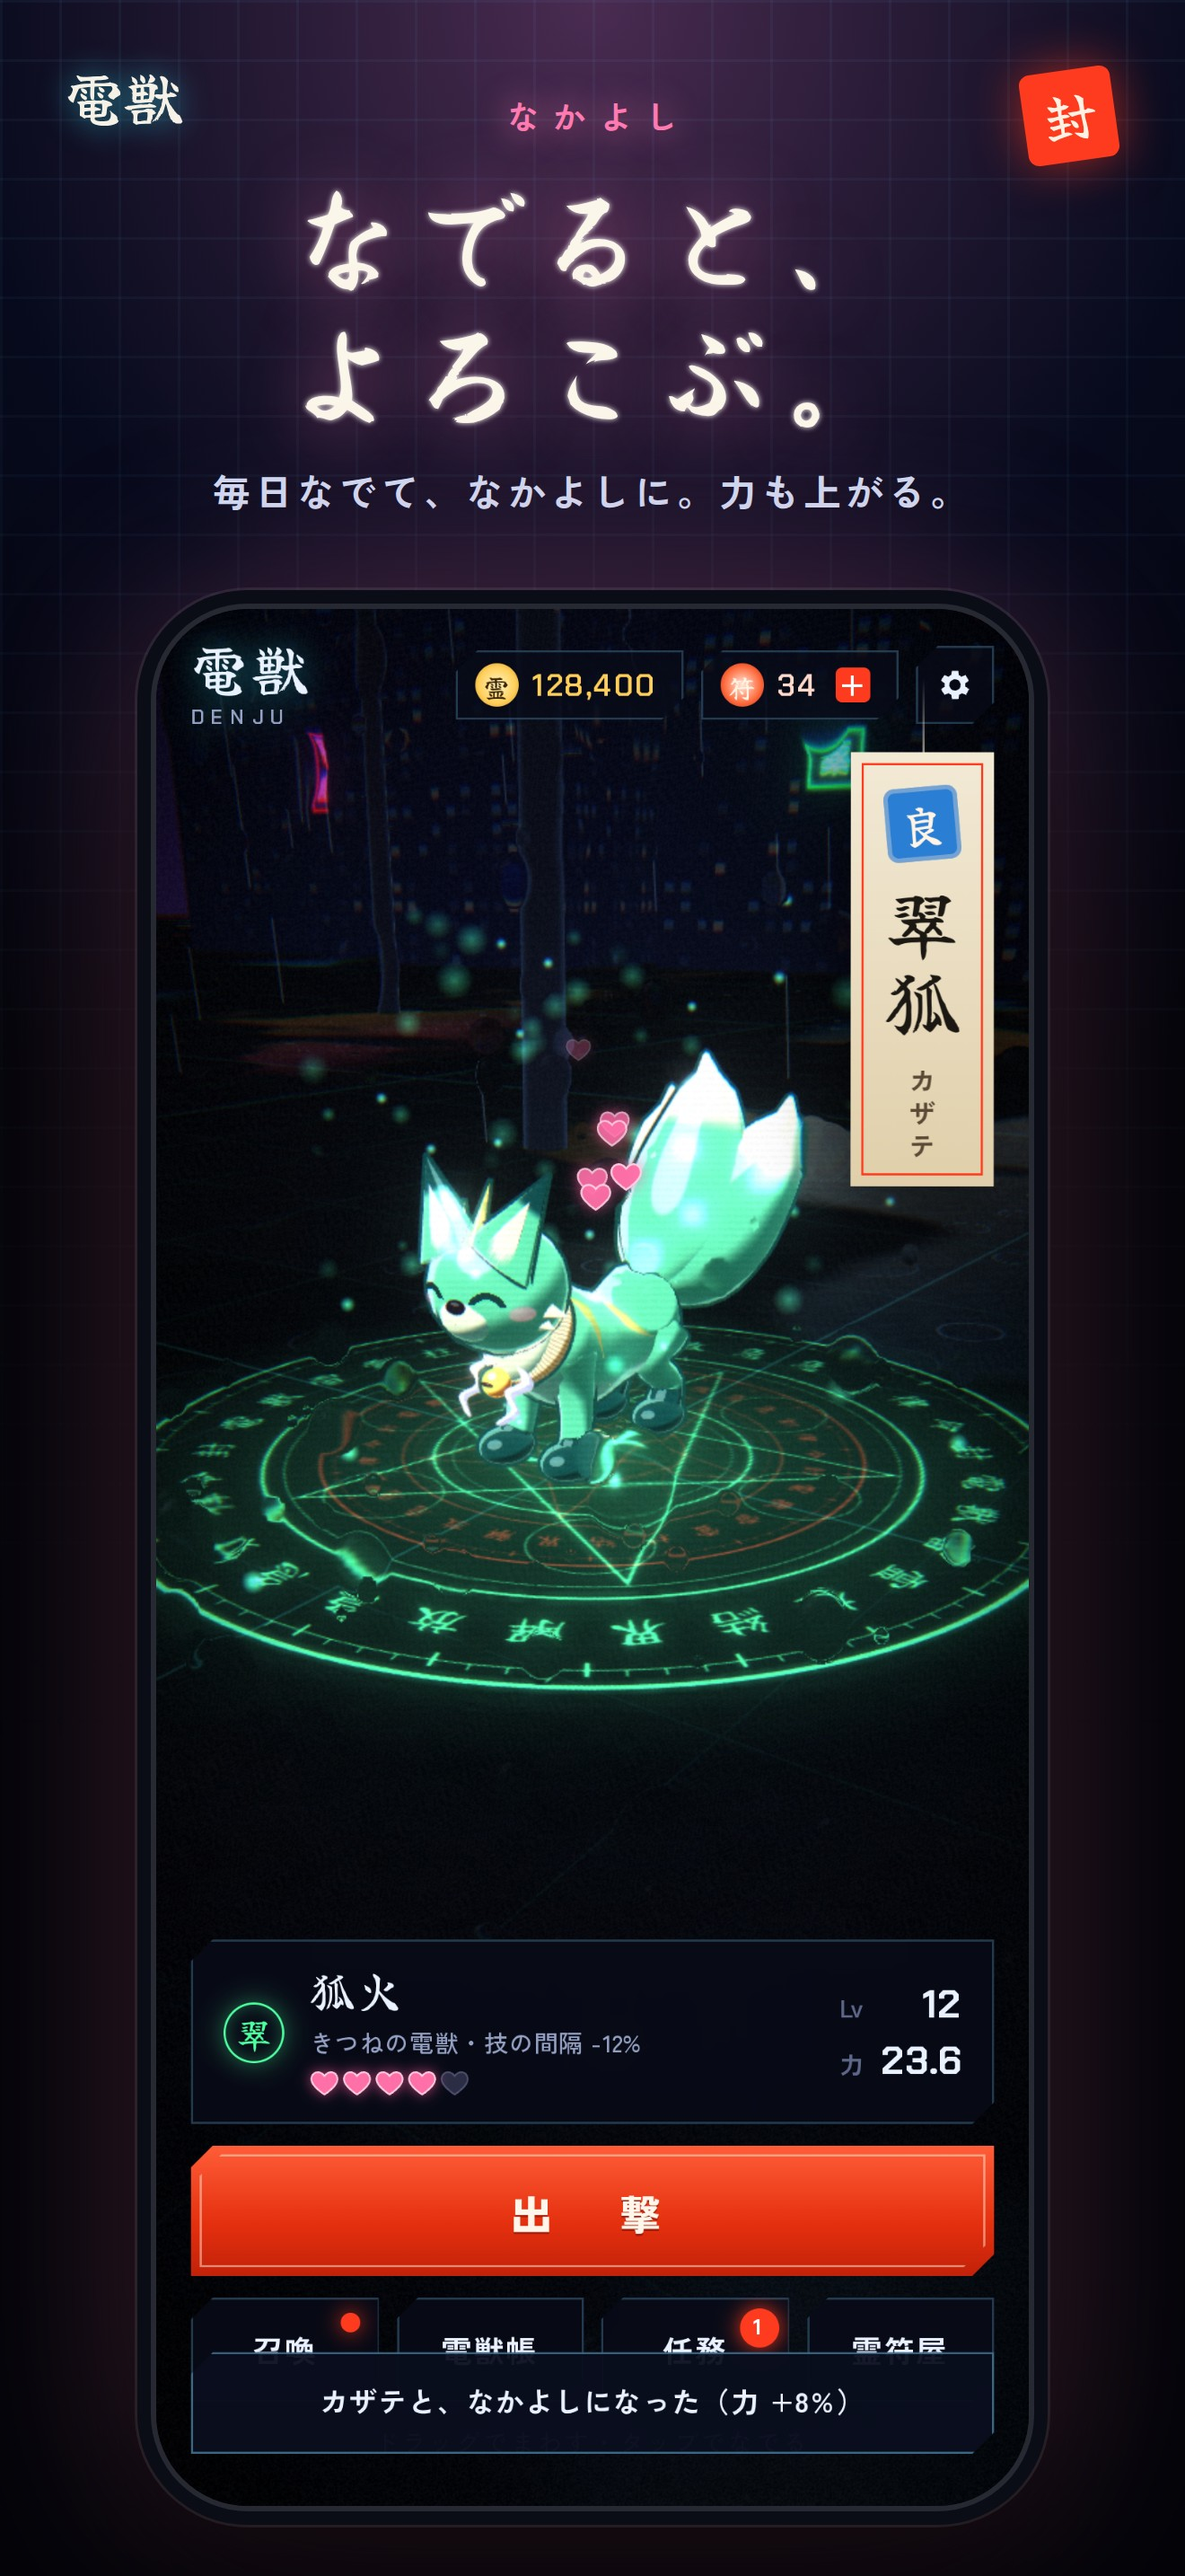
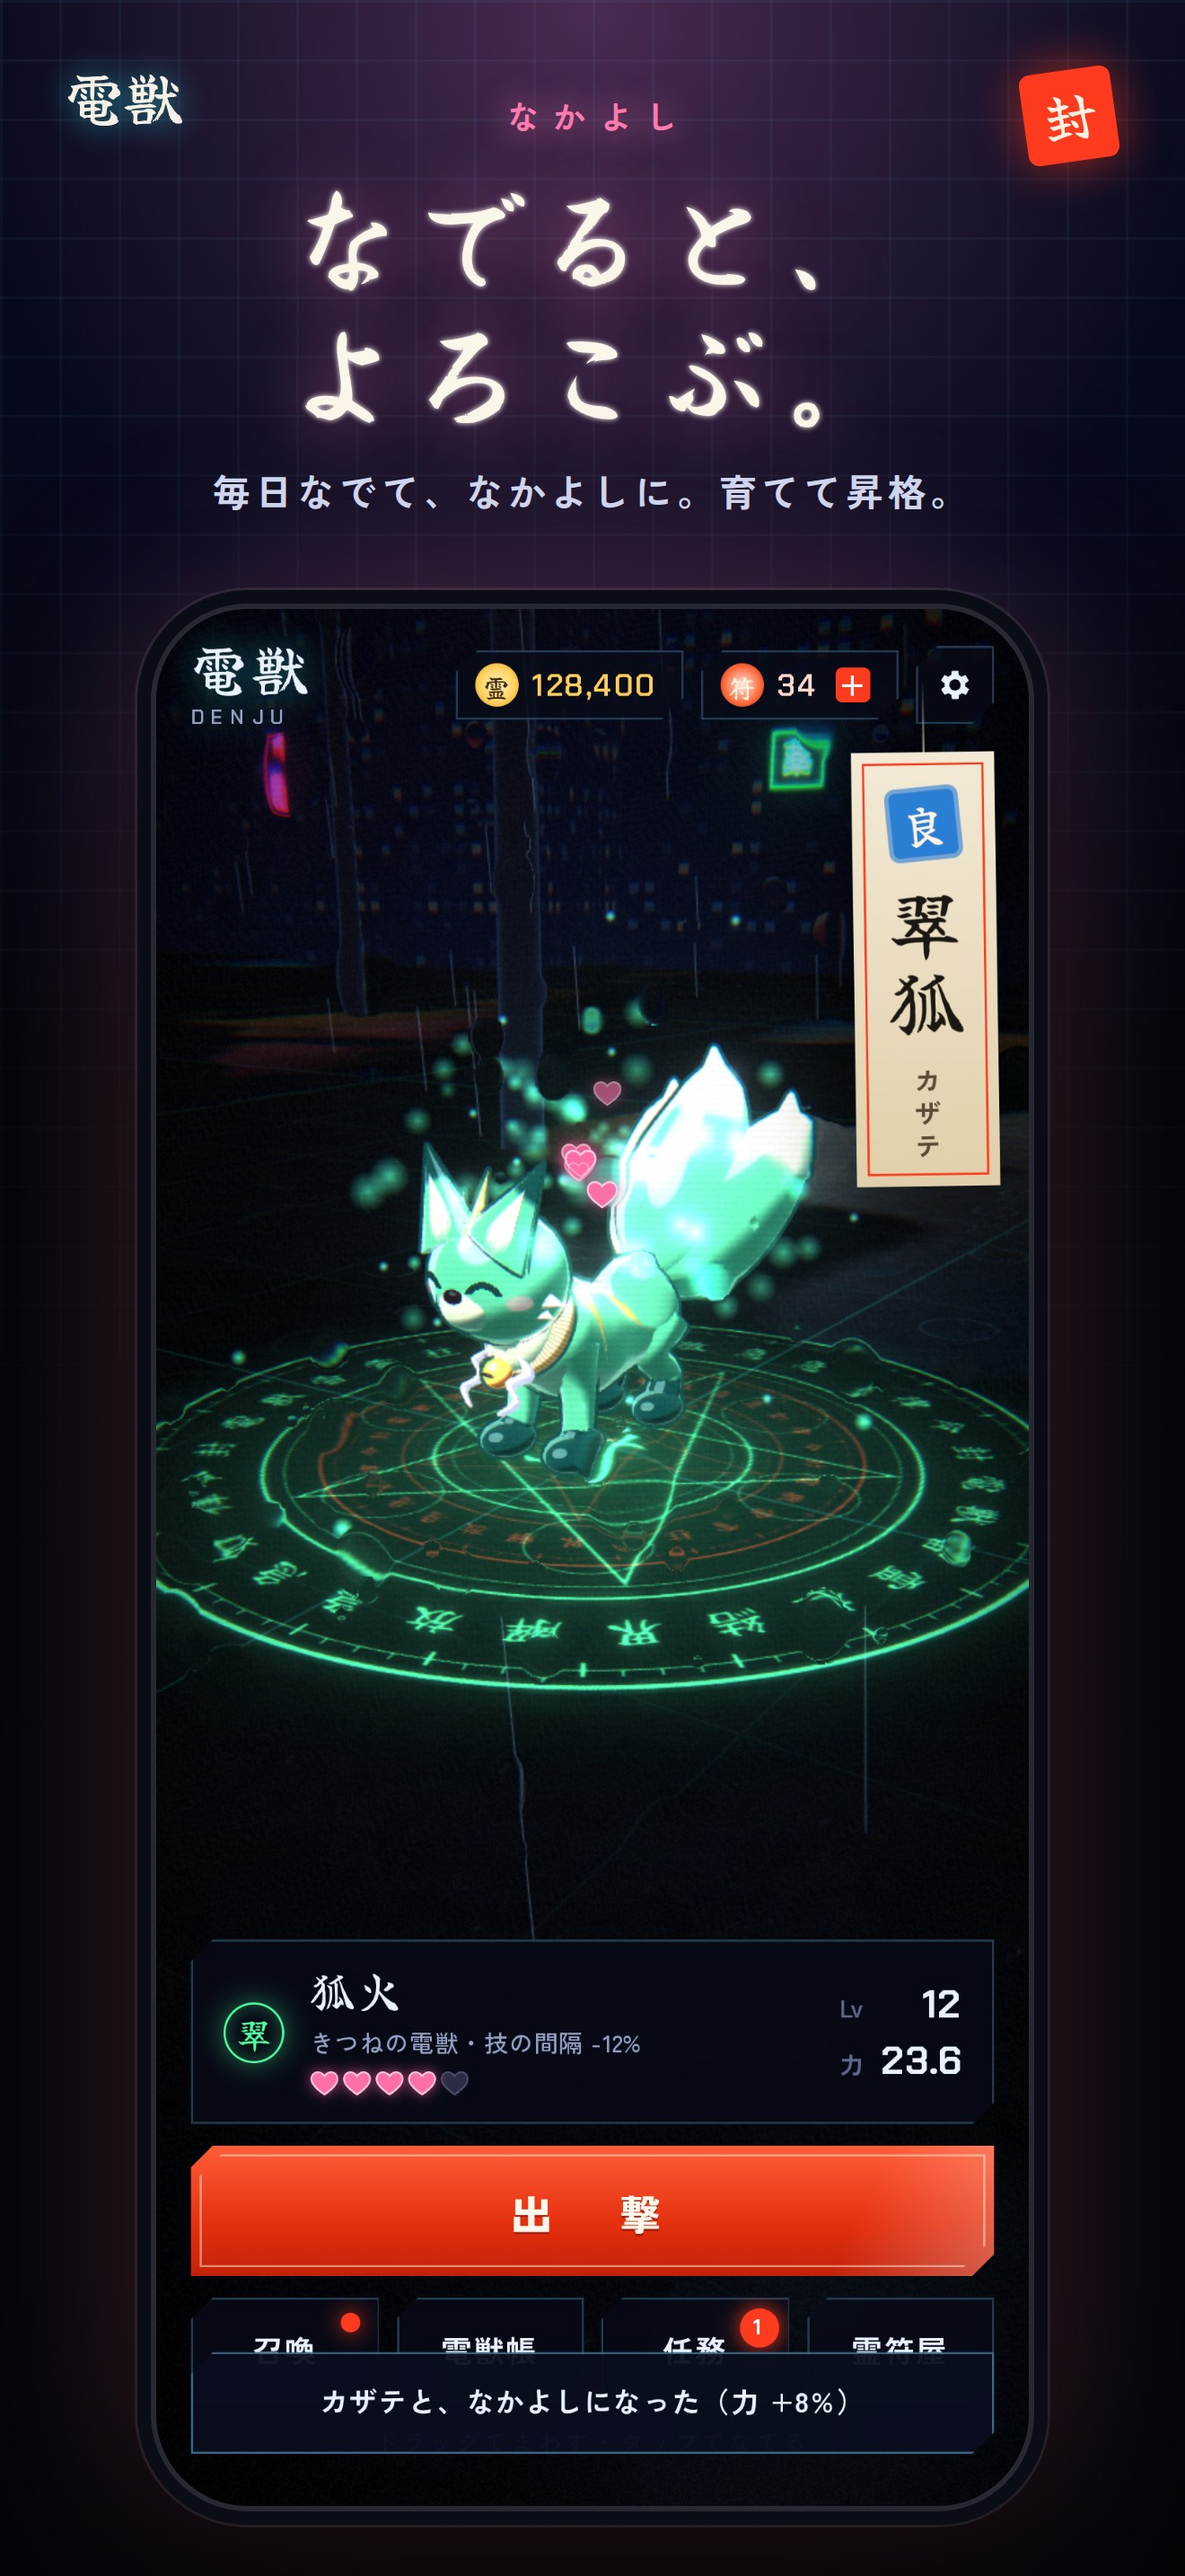
v1.4: eight screenshots, 色違い and 昇格 on the top page, privacy note on reminders
Claude-Session: https://claude.ai/code/session_01LKHU8wbc7ENvDeib6Km5aQ

diff --git a/odds.html b/odds.html
@@ -27,4 +27,5 @@ footer{margin-top:56px;padding-block:24px 40px;border-top:1px solid var(--edge);
 <h3>10回召喚の10体目（稀以上確定）</h3><div class="tbl"><table><tr><th>神（UR）</th><td>3%</td></tr><tr><th>稀（SR）</th><td>97%</td></tr></table></div>
 <h3>神の確定（天井）</h3><p>神が出ないまま召喚を続けた場合、100回目は神（100%）になります。神が出た時点で数え直します。残りの回数は召喚画面に表示されます。</p>
 <h3>種族と属性</h3><p>レア度が決まったあと、種族は 狐・狼 各26%、麒・龍・鳳 各16%、属性（雷・焔・蒼・翠・冥）は各20%で決まります。1回召喚での各電獣の割合は次のとおりです（10回召喚の10体目を除く）。</p><h3>並（N）の電獣　1体あたり</h3><div class="tbl"><table><tr><th></th><th>狐</th><th>狼</th><th>麒</th><th>龍</th><th>鳳</th></tr><tr><th>雷</th><td>2.860%</td><td>2.860%</td><td>1.760%</td><td>1.760%</td><td>1.760%</td></tr><tr><th>焔</th><td>2.860%</td><td>2.860%</td><td>1.760%</td><td>1.760%</td><td>1.760%</td></tr><tr><th>蒼</th><td>2.860%</td><td>2.860%</td><td>1.760%</td><td>1.760%</td><td>1.760%</td></tr><tr><th>翠</th><td>2.860%</td><td>2.860%</td><td>1.760%</td><td>1.760%</td><td>1.760%</td></tr><tr><th>冥</th><td>2.860%</td><td>2.860%</td><td>1.760%</td><td>1.760%</td><td>1.760%</td></tr></table></div><h3>良（R）の電獣　1体あたり</h3><div class="tbl"><table><tr><th></th><th>狐</th><th>狼</th><th>麒</th><th>龍</th><th>鳳</th></tr><tr><th>雷</th><td>1.560%</td><td>1.560%</td><td>0.960%</td><td>0.960%</td><td>0.960%</td></tr><tr><th>焔</th><td>1.560%</td><td>1.560%</td><td>0.960%</td><td>0.960%</td><td>0.960%</td></tr><tr><th>蒼</th><td>1.560%</td><td>1.560%</td><td>0.960%</td><td>0.960%</td><td>0.960%</td></tr><tr><th>翠</th><td>1.560%</td><td>1.560%</td><td>0.960%</td><td>0.960%</td><td>0.960%</td></tr><tr><th>冥</th><td>1.560%</td><td>1.560%</td><td>0.960%</td><td>0.960%</td><td>0.960%</td></tr></table></div><h3>稀（SR）の電獣　1体あたり</h3><div class="tbl"><table><tr><th></th><th>狐</th><th>狼</th><th>麒</th><th>龍</th><th>鳳</th></tr><tr><th>雷</th><td>0.624%</td><td>0.624%</td><td>0.384%</td><td>0.384%</td><td>0.384%</td></tr><tr><th>焔</th><td>0.624%</td><td>0.624%</td><td>0.384%</td><td>0.384%</td><td>0.384%</td></tr><tr><th>蒼</th><td>0.624%</td><td>0.624%</td><td>0.384%</td><td>0.384%</td><td>0.384%</td></tr><tr><th>翠</th><td>0.624%</td><td>0.624%</td><td>0.384%</td><td>0.384%</td><td>0.384%</td></tr><tr><th>冥</th><td>0.624%</td><td>0.624%</td><td>0.384%</td><td>0.384%</td><td>0.384%</td></tr></table></div><h3>神（UR）の電獣　1体あたり</h3><div class="tbl"><table><tr><th></th><th>狐</th><th>狼</th><th>麒</th><th>龍</th><th>鳳</th></tr><tr><th>雷</th><td>0.156%</td><td>0.156%</td><td>0.096%</td><td>0.096%</td><td>0.096%</td></tr><tr><th>焔</th><td>0.156%</td><td>0.156%</td><td>0.096%</td><td>0.096%</td><td>0.096%</td></tr><tr><th>蒼</th><td>0.156%</td><td>0.156%</td><td>0.096%</td><td>0.096%</td><td>0.096%</td></tr><tr><th>翠</th><td>0.156%</td><td>0.156%</td><td>0.096%</td><td>0.096%</td><td>0.096%</td></tr><tr><th>冥</th><td>0.156%</td><td>0.156%</td><td>0.096%</td><td>0.096%</td><td>0.096%</td></tr></table></div>
-<h3>言霊召喚</h3><p>言霊召喚の結果は、書いた言葉ごとにあらかじめ決まっています（だれが書いても同じ）。現れるのは稀（SR）までで、神は現れません。言霊召喚に有料の召喚符は使いません。</p></main><footer><a href="terms.html">利用規約</a><a href="privacy.html">プライバシーポリシー</a><a href="tokushoho.html">特定商取引法に基づく表記</a><a href="fund.html">資金決済法に基づく表示</a><a href="odds.html">提供割合</a><a href="support.html">サポート</a><p>© 2026 サン楽</p></footer></div></body></html>
+<h3>言霊召喚</h3><p>言霊召喚の結果は、書いた言葉ごとにあらかじめ決まっています（だれが書いても同じ）。現れるのは稀（SR）までで、神は現れません。言霊召喚に有料の召喚符は使いません。</p>
+<h3>色違い</h3><p>どの電獣にも、見た目の色だけがちがう「色違い」がいます（力・技は同じ）。色違いかどうかは札・言葉ごとに決まっていて、全体のおよそ2.5%です。レア度の割合には影響しません。</p></main><footer><a href="terms.html">利用規約</a><a href="privacy.html">プライバシーポリシー</a><a href="tokushoho.html">特定商取引法に基づく表記</a><a href="fund.html">資金決済法に基づく表示</a><a href="odds.html">提供割合</a><a href="support.html">サポート</a><p>© 2026 サン楽</p></footer></div></body></html>

diff --git a/index.html b/index.html
@@ -25,7 +25,7 @@ footer{margin-top:56px;padding-block:24px 40px;border-top:1px solid var(--edge);
 <div class="wrap"><header><a class="brand" href="./">電獣</a><nav><a href="support.html">サポート</a><a href="privacy.html">プライバシー</a></nav></header>
 <section class="hero"><img class="icon" src="img/icon.png" alt="電獣のアイコン"><div><h1>書いた言葉が、<br>電獣になる。</h1>
 <p class="lead">電線に眠る霊獣「電獣」を喚び、夜の街にあふれる怪異「ノイズ」を祓う、和風3Dサバイバーアクション。好きな言葉を札に書くと、その言葉に宿る電獣が目覚める――だれが書いても、同じ電獣。</p><span class="cta soon">App Store 配信準備中</span></div></section>
-<div class="shots"><img src="img/1_word.jpg" alt="" loading="lazy"><img src="img/2_pet.jpg" alt="" loading="lazy"><img src="img/3_battle.jpg" alt="" loading="lazy"><img src="img/4_ur.jpg" alt="" loading="lazy"><img src="img/5_input.jpg" alt="" loading="lazy"><img src="img/6_boss.jpg" alt="" loading="lazy"><img src="img/7_multi.jpg" alt="" loading="lazy"></div>
+<div class="shots"><img src="img/1_word.jpg" alt="" loading="lazy"><img src="img/2_pet.jpg" alt="" loading="lazy"><img src="img/3_shiny.jpg" alt="" loading="lazy"><img src="img/4_battle.jpg" alt="" loading="lazy"><img src="img/5_ur.jpg" alt="" loading="lazy"><img src="img/6_input.jpg" alt="" loading="lazy"><img src="img/7_boss.jpg" alt="" loading="lazy"><img src="img/8_multi.jpg" alt="" loading="lazy"></div>
 <h2>言霊召喚</h2><p>自分の名前、推しの名前、今日の晩ごはん。言葉ごとに決まった電獣が現れます。「○○って書いたら稀の五尾が出た」をシェアしよう。</p>
-<h2>遊び方</h2><div class="feat"><div><b>指一本</b>ドラッグで移動、技は自動。1回3分前後。</div><div><b>覚醒</b>強化を選んで技を進化させ、画面を雷で埋めつくす。</div><div><b>なかよし</b>拠点で電獣をタップすると、なでられる。毎日なでると「なかよし」が上がって、力も強くなる。</div><div><b>25種×4階級</b>狐・狼・麒麟・龍・鳳 × 5属性。雷は白磁、焔は朱漆、蒼は氷、翠は翡翠、冥は墨。神の狐は九尾に。</div><div><b>百鬼夜行</b>ノイズは人魂・鎌鼬・鬼・提灯お化け・鎧武者の姿で押し寄せる。妖は形で見分けられる。</div><div><b>6つの区と大禍</b>駅前から千本鳥居の稲荷坂、嵐の鉄塔の丘、雷雲の頂へ。姿も攻撃もちがう大禍が待つ。</div><div><b>深度30</b>浄化した区は、深度を上げてさらに強いノイズへ。</div></div>
+<h2>遊び方</h2><div class="feat"><div><b>指一本</b>ドラッグで移動、技は自動。1回3分前後。</div><div><b>覚醒</b>強化を選んで技を進化させ、画面を雷で埋めつくす。</div><div><b>なかよしと昇格</b>拠点で電獣をタップすると、なでられる。毎日なでると「なかよし」が上がり、Lv30・♥5で昇格。子どもの姿から凛々しい姿へ育つ。名前もつけられる。</div><div><b>色違い</b>札や言葉ごとに決まった、まれな色の電獣。黒漆、桜、金、藤、月白。</div><div><b>25種×4階級</b>狐・狼・麒麟・龍・鳳 × 5属性。雷は白磁、焔は朱漆、蒼は氷、翠は翡翠、冥は墨。神の狐は九尾に。</div><div><b>百鬼夜行</b>ノイズは人魂・鎌鼬・鬼・提灯お化け・鎧武者の姿で押し寄せる。妖は形で見分けられる。</div><div><b>6つの区と大禍</b>駅前から千本鳥居の稲荷坂、嵐の鉄塔の丘、雷雲の頂へ。姿も攻撃もちがう大禍が待つ。</div><div><b>深度30</b>浄化した区は、深度を上げてさらに強いノイズへ。</div></div>
 <footer><a href="terms.html">利用規約</a><a href="privacy.html">プライバシーポリシー</a><a href="tokushoho.html">特定商取引法に基づく表記</a><a href="fund.html">資金決済法に基づく表示</a><a href="odds.html">提供割合</a><a href="support.html">サポート</a><p>© 2026 サン楽</p></footer></div></body></html>

diff --git a/support.html b/support.html
@@ -24,6 +24,9 @@ h3{font-size:15px;margin:22px 0 4px}
 footer{margin-top:56px;padding-block:24px 40px;border-top:1px solid var(--edge);font-size:12px;color:var(--dim)}footer a{color:var(--dim);margin-right:12px}</style></head><body>
 <div class="wrap"><header><a class="brand" href="./">電獣</a><nav><a href="support.html">サポート</a><a href="privacy.html">プライバシー</a></nav></header><main class="doc"><h2>サポート</h2><p>不具合やご意見は、次のメールアドレスまでお送りください。返信までお時間をいただくことがあります。</p><p style="font-size:15px;color:#fff">wakahisamk@gmail.com</p><p>お送りいただきたい内容：アプリのバージョン（1.0.0）、お使いの機種と OS のバージョン、起きたことと手順。</p>
 <h3>遊び方</h3><ul><li>「召喚」で電獣を呼び、「出撃」で区を浄化します。移動はドラッグ、技は自動で出ます。</li><li>電柱のそばでは「共鳴」して技が強くなります。ゲージが満ちたら「解放」。</li><li>浄化した区は「深度」を上げて挑めます。初めて浄化した深度では召喚符がもらえます。</li><li>霊子で電獣に霊力を注ぐ（レベルを上げる）と強くなります。</li></ul>
+<h3>なかよしと昇格</h3><p>拠点で電獣をタップすると、なでられます。1日1回「なかよし」が上がり（最大♥5）、力も上がります。Lv30・なかよし♥5になった並と良の電獣は、霊子を使って1つ上の位に「昇格」できます（稀まで）。姿が育ち、力が上がります。</p>
+<h3>留守番の霊子</h3><p>アプリを閉じているあいだ、主の電獣が霊子を集めてくれます（最大12時間分）。浄化した区が増えるほど、なかよしが高いほど多く集まります。拠点の「受け取る」で受け取れます。</p>
+<h3>名前</h3><p>電獣帳で電獣を開き、名前の横の ✎ から好きな名前（8文字まで）をつけられます。</p>
 <h3>召喚符の集め方</h3><ul><li>毎日のログイン、今日の任務、区・深度の初浄化、広告（1日2回）で手に入ります。霊符屋で購入もできます。</li></ul>
 <h3>言霊召喚とは</h3><p>好きな言葉を札に書いて召喚します。同じ言葉からは、だれが書いても同じ電獣が現れます。1日1回（広告でもう1回）。</p>
 <h3>機種変更・データについて</h3><p>ゲームのデータは端末の中に保存されます。機種変更のときは、iPhone なら iCloud バックアップ、Android なら Google のバックアップから新しい端末へ復元すると引き継げます。アプリを削除するとデータは消えます。</p>

diff --git a/privacy.html b/privacy.html
@@ -24,7 +24,7 @@ h3{font-size:15px;margin:22px 0 4px}
 footer{margin-top:56px;padding-block:24px 40px;border-top:1px solid var(--edge);font-size:12px;color:var(--dim)}footer a{color:var(--dim);margin-right:12px}</style></head><body>
 <div class="wrap"><header><a class="brand" href="./">電獣</a><nav><a href="support.html">サポート</a><a href="privacy.html">プライバシー</a></nav></header><main class="doc"><h2>プライバシーポリシー</h2>
 <p>サン楽（以下「運営者」）は、ゲームアプリ「電獣」（以下「本アプリ」）における利用者の情報を、次のとおり取り扱います。</p>
-<h3>1. 運営者が取得する情報</h3><p>本アプリのゲームデータ（電獣、進み具合、召喚符の枚数など）は利用者の端末内にだけ保存され、運営者のサーバーには送信しません。お問い合わせをいただいた場合は、メールアドレスと内容を返信のために利用します。</p>
+<h3>1. 運営者が取得する情報</h3><p>本アプリのゲームデータ（電獣、進み具合、召喚符の枚数、言霊召喚で書いた言葉、電獣につけた名前など）は利用者の端末内にだけ保存され、運営者のサーバーには送信しません。お知らせ（通知）を許可した場合も、通知は端末の中で予約され、外部には何も送信しません。お問い合わせをいただいた場合は、メールアドレスと内容を返信のために利用します。</p>
 <h3>2. 広告配信（外部送信）</h3><p>本アプリは広告配信のため Google LLC の Google AdMob を利用します。AdMob は、広告識別子（iOS では利用者が許可した場合のみ）、端末や OS の情報、IP アドレス、広告の表示・クリックの情報などを取得し、広告の配信・効果測定・不正防止に利用します。</p>
 <div class="tbl"><table><tr><th>送信先</th><td>Google LLC（Google AdMob）</td></tr><tr><th>送信される情報</th><td>広告識別子、端末・OS の情報、IP アドレス、アプリの利用情報（広告の表示・クリック）</td></tr><tr><th>利用目的</th><td>広告の配信、効果測定、不正防止</td></tr></table></div>
 <p>Google による情報の取り扱い：https://policies.google.com/technologies/partner-sites?hl=ja　／　Google プライバシーポリシー：https://policies.google.com/privacy?hl=ja</p>
